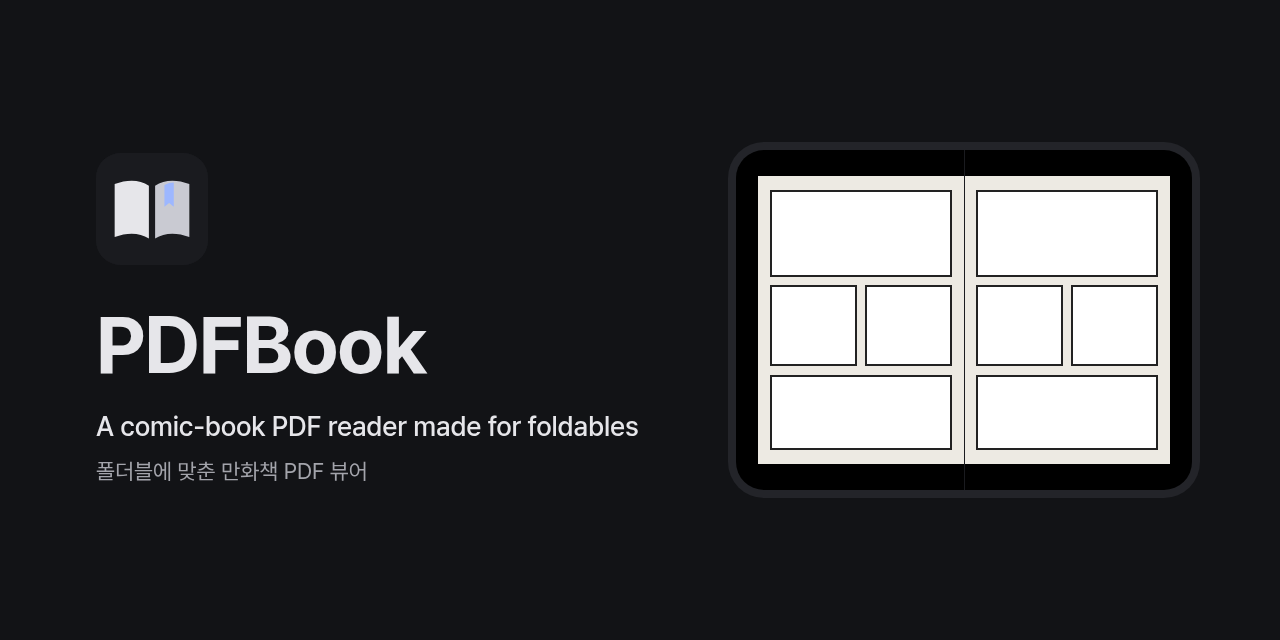
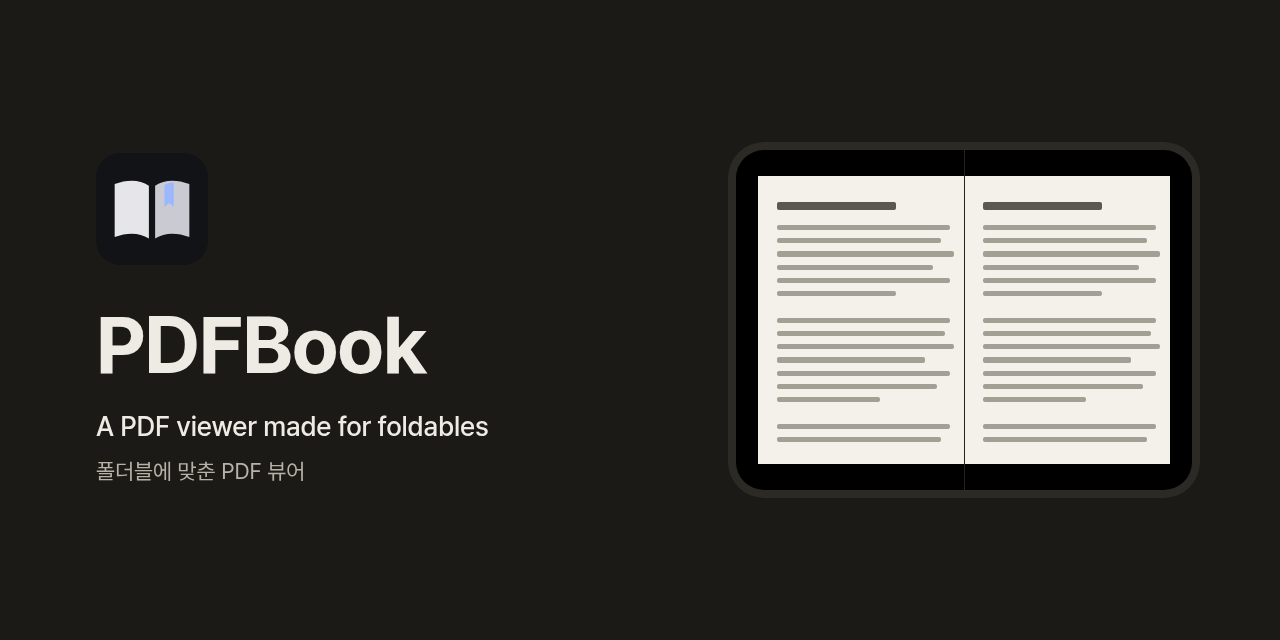
docs: add mit license and rewrite readme as pdf viewer (#28)

diff --git a/scripts/subset_fonts.py b/scripts/subset_fonts.py
@@ -11,7 +11,7 @@ ROOT = pathlib.Path(__file__).resolve().parents[1]
 FONT_DIR = ROOT / "app" / "src" / "main" / "res" / "font"
 CHARSET_PATH = ROOT / "fonts" / "pretendard_subset_chars.txt"
 SIZE_PATH = ROOT / "fonts" / "subset_sizes.txt"
-SRC_CACHE = pathlib.Path("/tmp/pdfb/fonts/src")
+SRC_CACHE = pathlib.Path(tempfile.gettempdir()) / "pdfbook-fonts" / "src"
 PRETENDARD_URL = "https://github.com/orioncactus/pretendard/releases/download/v1.3.9/Pretendard-1.3.9.zip"
 JETBRAINS_URL = "https://github.com/JetBrains/JetBrainsMono/releases/download/v2.304/JetBrainsMono-2.304.zip"
 PRETENDARD_VERSION = "1.3.9"

diff --git a/README.md b/README.md
@@ -2,12 +2,46 @@
 
 # PDFBook
 
-Android PDF 리더.
+폴더블에 맞춘 Android PDF 뷰어.
 
-## Fonts
+An Android PDF viewer made for foldables.
+
+## 기능
+
+- 책 폴더 여러 개 등록, 폴더별 서재와 표지 목록
+- 이어 읽기(마지막으로 읽던 쪽에서 다시 열기)
+- 두쪽 펼침 보기, 표지 단독 표시
+- 오른쪽 → 왼쪽 / 왼쪽 → 오른쪽 넘김, 책마다 방향 저장
+- 볼륨 키로 넘기기
+- 오버레이와 페이지 슬라이더
+- 핀치 줌, 더블탭 확대
+- 라이트 / 다크 테마, 한국어 / English
+
+## 설치
+
+[Releases](https://github.com/parkjangwon/pdfbook/releases)에서 `pdfbook-<버전>.apk`를 받아 설치합니다. Android 15(API 35) 이상이 필요합니다.
+
+## 빌드
+
+JDK 21이 필요합니다.
+
+```bash
+./gradlew assembleDebug
+./gradlew testDebugUnitTest lintDebug
+```
+
+릴리스 서명 빌드(`assembleRelease`)는 환경 변수 `PDFBOOK_KEYSTORE`, `PDFBOOK_STORE_PASSWORD`, `PDFBOOK_KEY_ALIAS`, `PDFBOOK_KEY_PASSWORD`가 있어야 합니다.
+
+## 폰트
 
 - Pretendard v1.3.9 (OFL) — https://github.com/orioncactus/pretendard/releases — subset renamed to PDFBook Sans (RFN)
 - JetBrains Mono v2.304 (OFL) — https://github.com/JetBrains/JetBrainsMono/releases — digits/symbols subset
+
+라이선스 전문: [licenses/Pretendard-OFL.txt](licenses/Pretendard-OFL.txt), [licenses/JetBrainsMono-OFL.txt](licenses/JetBrainsMono-OFL.txt). 서브셋은 `scripts/subset_fonts.py`로 다시 만들 수 있습니다.
+
+## 라이선스
+
+코드는 [MIT License](LICENSE)를 따릅니다. 앱에 포함된 폰트는 SIL Open Font License 1.1이며 전문은 [licenses/](licenses/)에 있습니다.
 
 ## 커밋 메시지 훅
 
